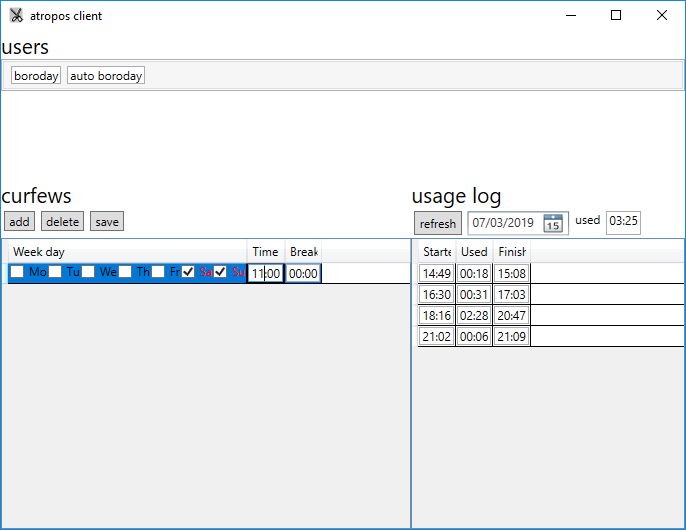
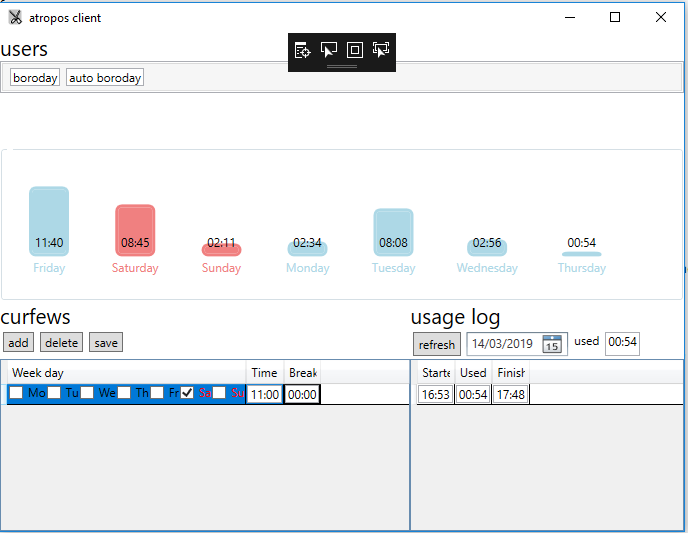
week chart was added #17

Changed region(s): [[0.0, 0.0, 1.0, 1.0], [0.0, 0.3321, 0.4898, 0.5434], [0.0, 0.2717, 0.0306, 0.3019]]

diff --git a/src/client/MainWindow.xaml b/src/client/MainWindow.xaml
@@ -14,7 +14,8 @@
 	<Grid >
 		<Grid.RowDefinitions>
 			<RowDefinition  Height="3*"/>
-			<RowDefinition Height="7*"/>
+			<RowDefinition Height="3*"/>
+			<RowDefinition Height="6*"/>
 		</Grid.RowDefinitions>
 		<Border Grid.Row="0">
 			<StackPanel Orientation="Vertical">
@@ -31,7 +32,53 @@
 				</ListBox>
 			</StackPanel>
 		</Border>
-		<Grid Grid.Row="1">
+		<GroupBox Grid.Row="1">
+			<ItemsControl ItemsSource="{Binding WeekUsages.Value}">
+				<ItemsControl.ItemsPanel>
+					<ItemsPanelTemplate>
+						<StackPanel Orientation="Horizontal"></StackPanel>
+					</ItemsPanelTemplate>
+				</ItemsControl.ItemsPanel>
+
+				<ItemsControl.ItemTemplate>
+					<DataTemplate>
+						<StackPanel Margin="20,0,20,0" VerticalAlignment="Bottom">
+							<TextBlock HorizontalAlignment="Center" 
+                                   FontFamily="Latha" Text="{Binding Used, Converter={StaticResource ts2str}}">
+								<!--<TextBlock.RenderTransform>
+									<TranslateTransform Y="-20"/>
+								</TextBlock.RenderTransform>-->
+							</TextBlock>
+							<Border Name="br" Margin="3,5,3,0"  CornerRadius="5" 
+                                Background="{Binding Color}"
+                                Width="40" BorderBrush="{Binding Color}"  
+                                BorderThickness="3" 
+                                Height="{Binding UsedMinutes}">
+								<Border.Triggers>
+									<EventTrigger RoutedEvent="Border.Loaded">
+										<BeginStoryboard>
+											<Storyboard>
+												<DoubleAnimation From="0"  
+                                                             Storyboard.TargetName="br" 
+                                 Storyboard.TargetProperty="(FrameworkElement.Height)" 
+                                                              Duration="0:0:02.0">
+
+												</DoubleAnimation>
+											</Storyboard>
+										</BeginStoryboard>
+									</EventTrigger>
+								</Border.Triggers>
+							</Border>
+							<TextBlock HorizontalAlignment="Center" Foreground="{Binding Color}"
+                                   FontFamily="Latha" 
+                                   Text="{Binding Day}">
+							</TextBlock>
+						</StackPanel>
+					</DataTemplate>
+				</ItemsControl.ItemTemplate>
+			</ItemsControl>
+		</GroupBox>
+		<Grid Grid.Row="2">
 			<Grid.ColumnDefinitions>
 				<ColumnDefinition Width="6*"/>
 				<ColumnDefinition Width="4*"/>

diff --git a/src/client/Data/DataLoader.cs b/src/client/Data/DataLoader.cs
@@ -22,6 +22,7 @@ namespace client.Data
 			Users = new DataItems<User>(LoadUsers);
 			UsageLog = new DataItems<UsageLog>(LoadUsageLog);
 			Curfews = new DataItems<CurfewGui>(LoadCurfews);
+			WeekUsages = new DataItems<UsageWeekLog>(LoadWeekUsage);
 
 			AddCurfew = new DelegateCommand() { CommandAction = () => AddCurfewMethod(), CanExecuteFunc = () => SelectedUser != null };
 			DelCurfew = new DelegateCommand() { CommandAction = () => DelCurfewMethod(), CanExecuteFunc = () => SelectedCurfew != null };
@@ -53,6 +54,35 @@ namespace client.Data
 			return new ObservableCollection<CurfewGui>(curfews.Select(_ => _.ToGui()));
 		}
 
+#if DEBUG
+		static Random random = new Random();
+
+		public static bool RandomizeIfZero = true;
+#endif
+
+		ObservableCollection<UsageWeekLog> LoadWeekUsage()
+		{
+			var today = DateTime.Today;
+			var res = new ObservableCollection<UsageWeekLog>();
+
+			for (int q = 0; q < 7; q++)
+			{
+				var date = today.AddDays(-q);
+				var usages = Service.GetUsageLog(SelectedUser?.Login, date);
+
+				var used = usages.Sum(_ => _.Used.ToDto()).ToTime();
+				var weekUsage = new UsageWeekLog(date.DayOfWeek, used);
+
+#if DEBUG
+				if (RandomizeIfZero && weekUsage.Used == TimeSpan.Zero)
+					weekUsage.Used = TimeSpan.FromMinutes(random.Next(20, 900)); // 15 hours * 60 minutes
+#endif
+
+				res.Insert(0, weekUsage);
+			}
+			return res;
+		}
+
 		DateTime date;
 		public DateTime Date { get { return date; } set { if (Set(ref date, value)) ReloadUsageLogMethod(); } }
 
@@ -63,6 +93,14 @@ namespace client.Data
 		public DataItems<UsageLog> UsageLog { get; set; }
 
 		public DataItems<CurfewGui> Curfews { get; set; }
+
+		/// <summary>
+		/// Gets or sets the week usages.
+		/// </summary>
+		/// <value>
+		/// The week usages.
+		/// </value>
+		public DataItems<UsageWeekLog> WeekUsages { get; set; }
 
 		public bool IsNotAdmin { get { return !IsAdmin; } }
 		public bool IsAdmin
@@ -112,6 +150,7 @@ namespace client.Data
 		public void ReloadUsageLogMethod()
 		{
 			UsageLog.Value = LoadUsageLog();
+			WeekUsages.Value = LoadWeekUsage();
 		}
 
 		public void Dispose()
@@ -132,6 +171,7 @@ namespace client.Data
 				{
 					Curfews.LoadAsync();
 					UsageLog.LoadAsync();
+					WeekUsages.LoadAsync();
 				}
 			}
 		}

diff --git a/src/client/Data/UsageWeekLog.cs b/src/client/Data/UsageWeekLog.cs
@@ -1,0 +1,54 @@
+using System;
+using System.Collections.Generic;
+using System.Diagnostics;
+using System.Linq;
+using System.Text;
+using System.Threading.Tasks;
+using System.Windows.Media;
+
+namespace client.Data
+{
+	/// <summary>
+	/// holds per day usage data
+	/// </summary>
+	/// <seealso cref="client.Data.PropertyChangedBase" />
+	[DebuggerDisplay("{Day} {Used}")]
+	public class UsageWeekLog : PropertyChangedBase
+	{
+		public UsageWeekLog(DayOfWeek day, TimeSpan used)
+		{
+			_used = used;
+			_day = day;
+		}
+
+		TimeSpan _used;
+		public TimeSpan Used
+		{
+			get { return _used; }
+			set { Set(ref _used, value); }
+		}
+
+		DayOfWeek _day;
+		public string Day { get { return _day == DateTime.Today.DayOfWeek ? "Today" : _day.ToString(); } }
+
+		public int UsedMinutes
+		{
+			get
+			{
+				var tm = (int)Used.TotalMinutes / 10;
+
+				return tm;
+			}
+		}
+
+		public Brush Color
+		{
+			get
+			{
+				return _day == DayOfWeek.Sunday || _day == DayOfWeek.Saturday
+					? Brushes.LightCoral
+					: Brushes.LightBlue;
+			}
+		}
+	}
+}
